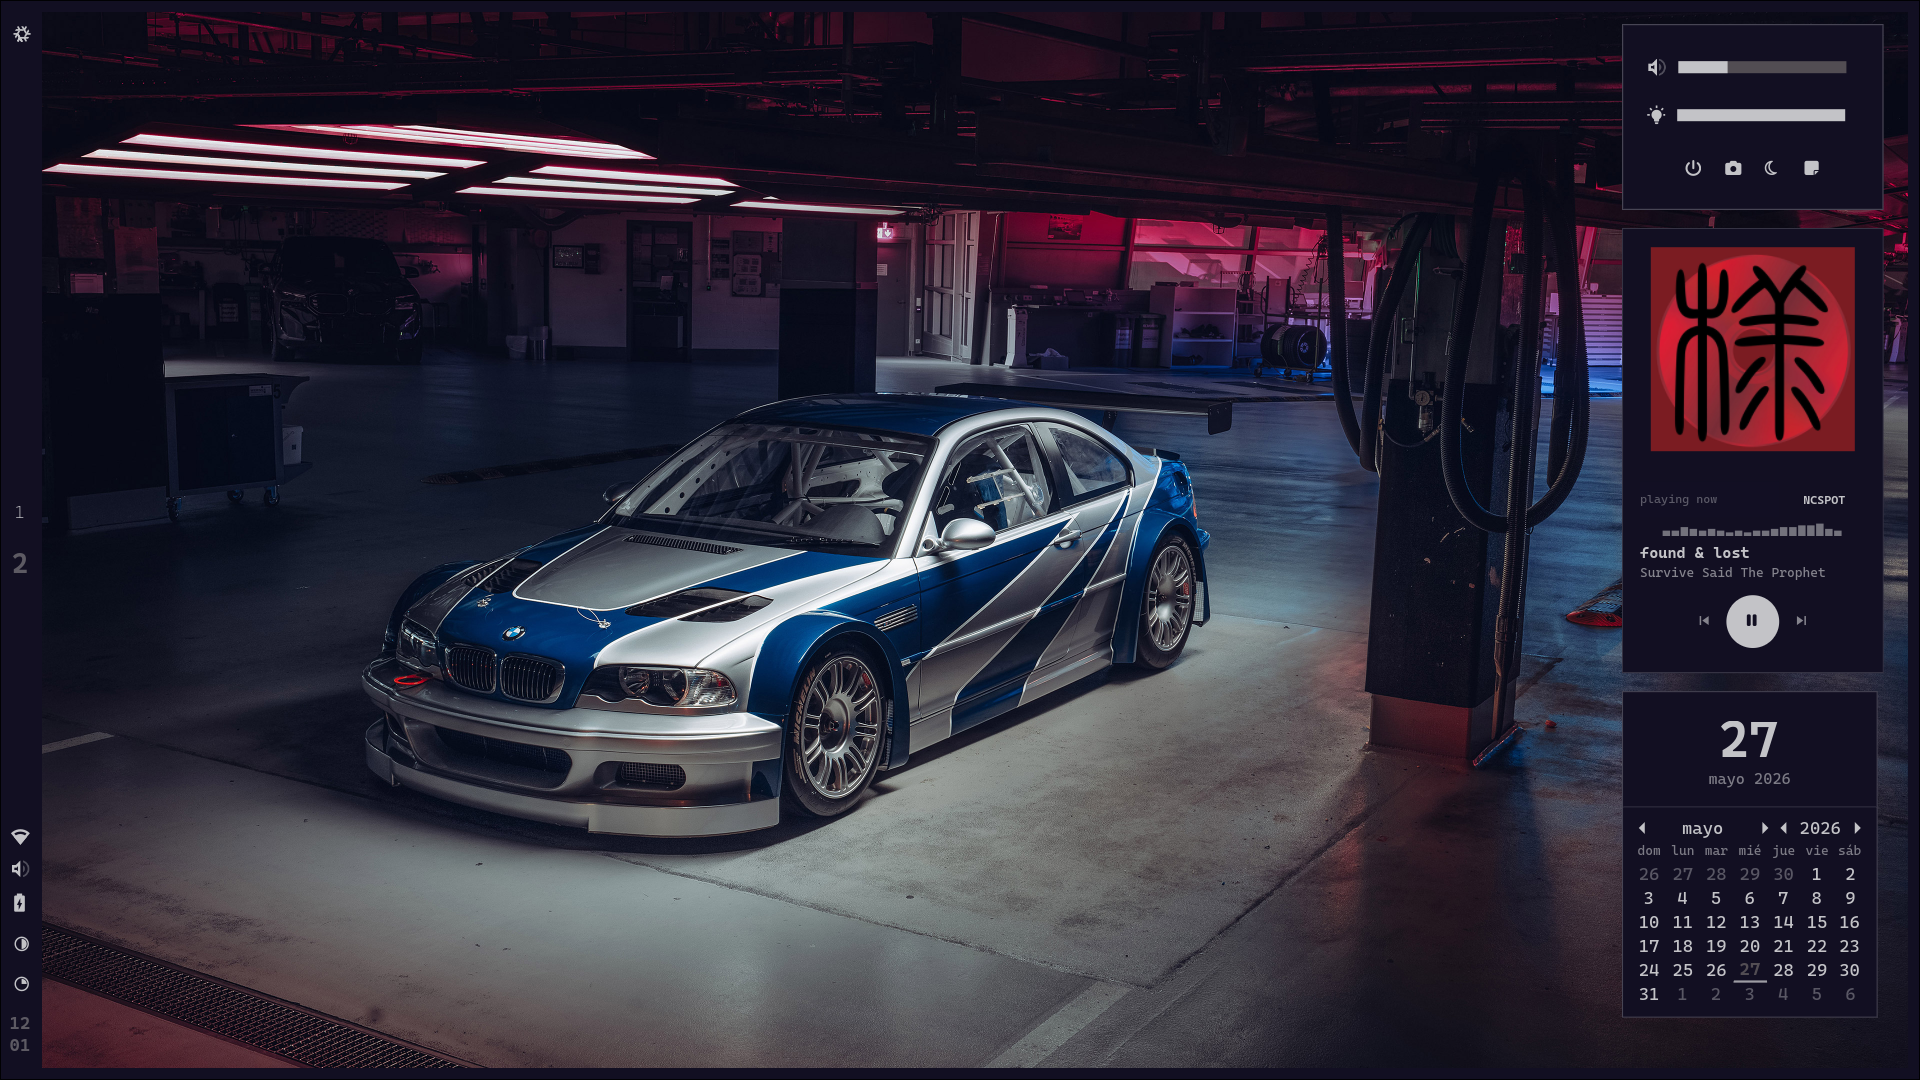
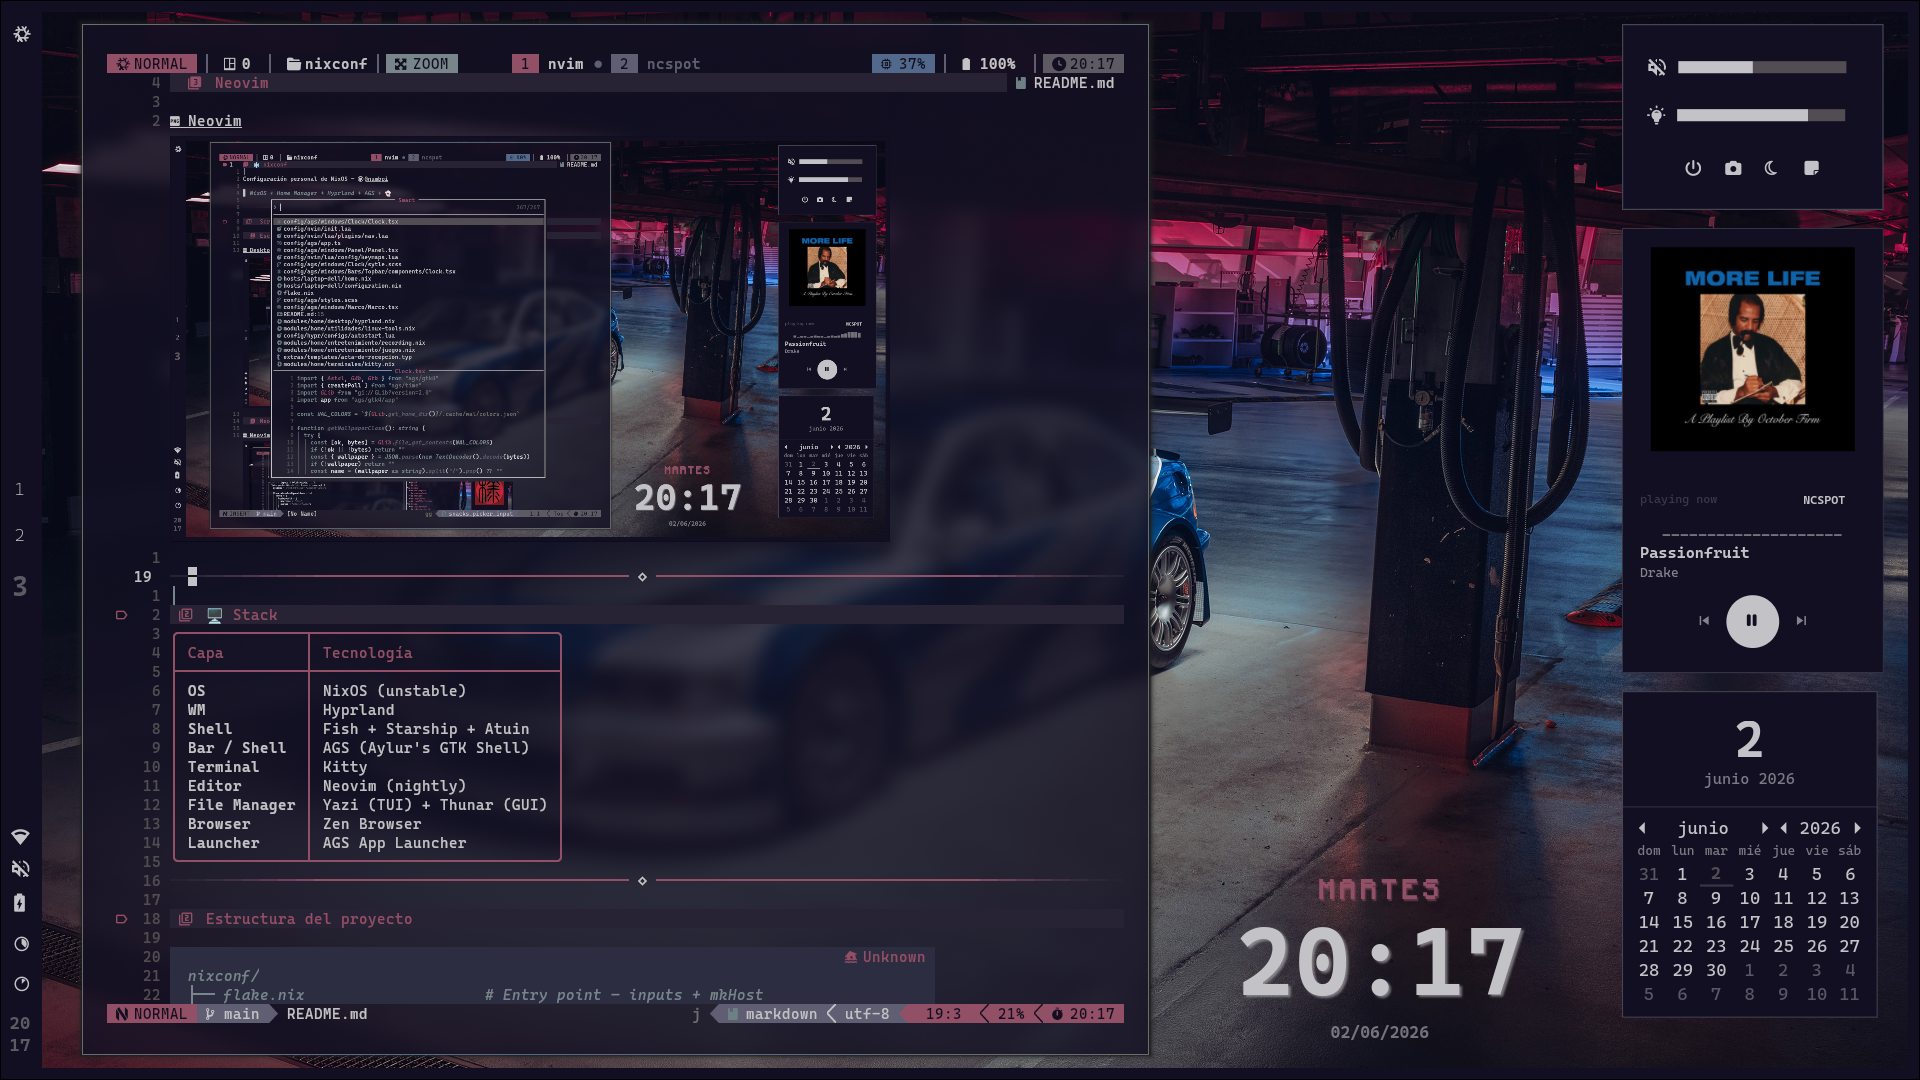
ajustes al readme

diff --git a/README.md b/README.md
@@ -2,11 +2,11 @@
 
 Configuración personal de NixOS — [@numbpi](https://github.com/numbpi)
 
-> NixOS + Home Manager + Hyprland + AGS + 👻
+> NixOS + Home Manager + Hyprland + AGS + Depresion xd
 
 ---
 
-## 📸 Screenshots
+## Screenshots
 
 ### Escritorio
 
@@ -18,7 +18,7 @@ Configuración personal de NixOS — [@numbpi](https://github.com/numbpi)
 
 ---
 
-## 🖥 Stack
+## Stack
 
 | Capa | Tecnología |
 |------|-----------|
@@ -34,7 +34,7 @@ Configuración personal de NixOS — [@numbpi](https://github.com/numbpi)
 
 ---
 
-## 🗂 Estructura del proyecto
+## Estructura del proyecto
 
 ```
 nixconf/
@@ -71,7 +71,7 @@ nixconf/
 
 ---
 
-## 🚀 Instalación
+## Instalación
 
 ```bash
 # Clonar
@@ -86,9 +86,3 @@ nh os switch .
 ```
 
 > **Nota:** los dotfiles en `config/` están linkeados como symlinks out-of-store al directorio `~/nixconf/config/`. Si clonás en otra ruta, actualizá los paths en `home.nix`.
-
----
-
-## 🏷 Licencia
-
-MIT
